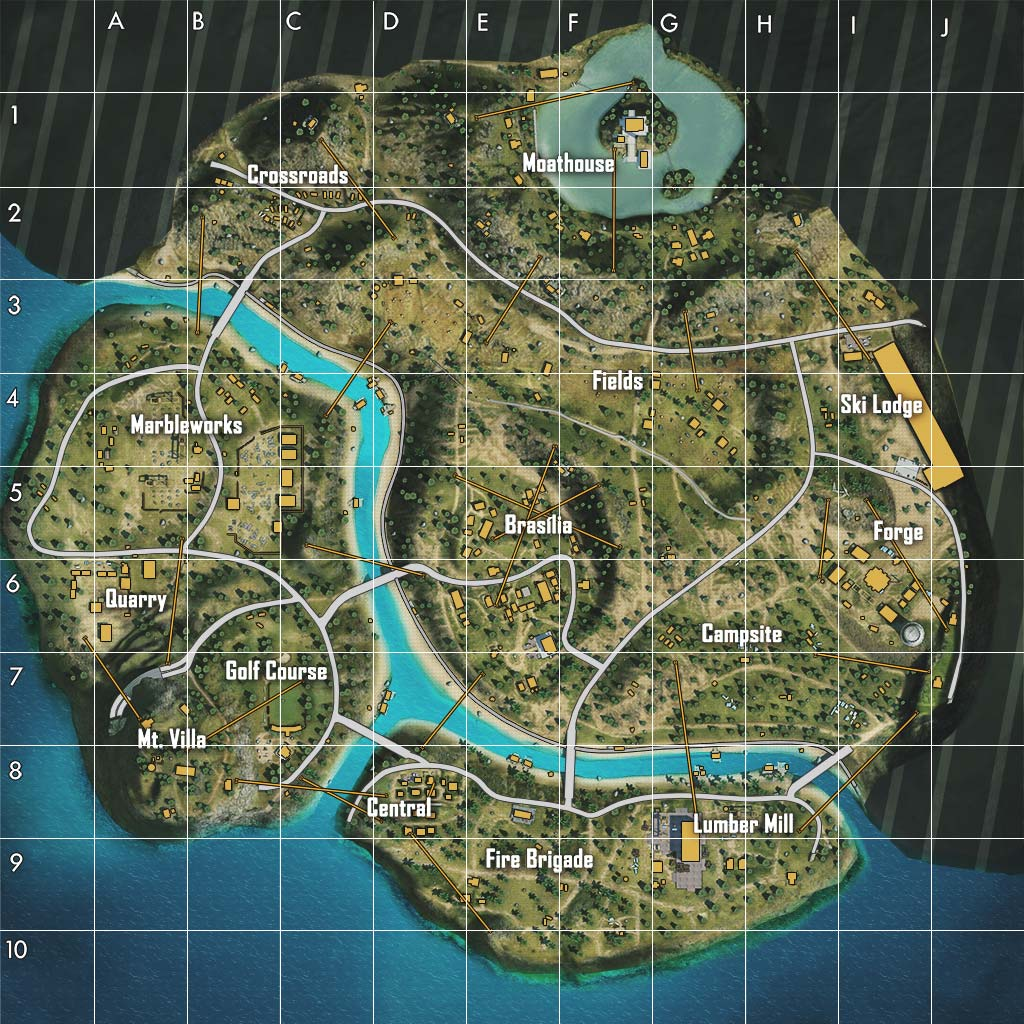
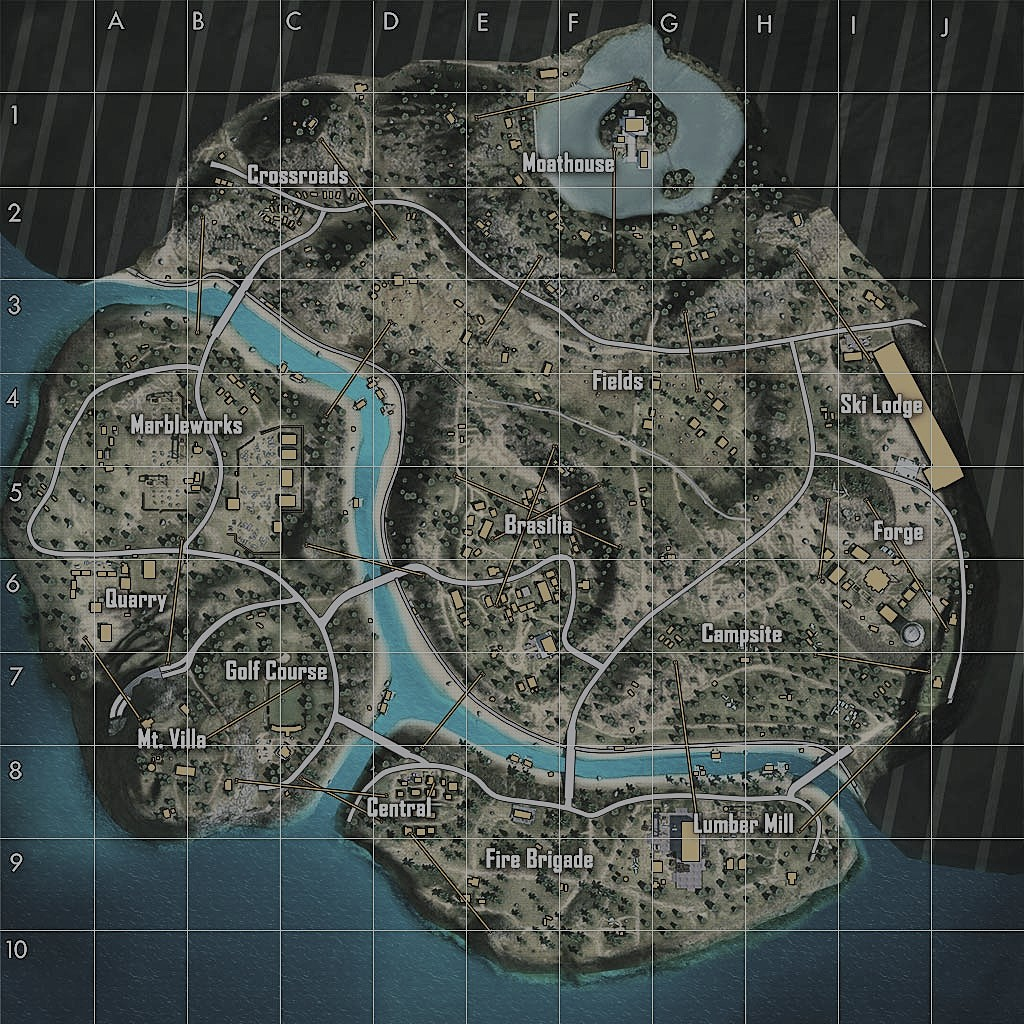
phase 2 complete - full drawing engine implemented, path fix + thickness tuning + grow prep, UI slider polish + tactical map pipeline ready

diff --git a/frontend/src/components/toolbar.jsx b/frontend/src/components/toolbar.jsx
@@ -12,7 +12,15 @@ const MAPS = [
     name: "Purgatory",
     path: "/maps/purgatory.jpg",
     preview: "/maps/purgatory-preview.jpg"
-  }
+  },
+  { name: "kalahari",
+    path: "/maps/kalahari.jpg",
+    preview: "/maps/kalahari-preview.jpg"
+  },
+  { name: "nexterra",
+    path: "/maps/nexterra.jpg",
+    preview: "/maps/nexterra-preview.jpg"
+    },
 ];
 
 export default function Toolbar({
@@ -97,6 +105,7 @@ export default function Toolbar({
         color: "#fff"
       }}
     >
+      <style>{sliderCSS}</style>
       {/* STRATEGY HEADER SHELL */}
       <div
         style={{
@@ -485,50 +494,75 @@ export default function Toolbar({
 
 
 
-          {/* THICKNESS */}
-          <div style={{ display: "flex", flexDirection: "column", gap: 6 }}>
-            <div style={{ fontSize: 11, opacity: 0.75 }}>Thickness</div>
-            <input
-              type="range"
-              min={1}
-              max={12}
-              defaultValue={3}
-              onChange={(e) => setPenWidth(Number(e.target.value))}
-                style={{
-    width: "100%",
-    appearance: "none",
-    height: 6,
-    borderRadius: 6,
-    background: "linear-gradient(to right, #2ed573, #2f3542)",
-    outline: "none",
-    cursor: "pointer"
-  }}
-
-            />
-          </div>
-
           {/* OPACITY */}
-          <div style={{ display: "flex", flexDirection: "column", gap: 6 }}>
-            <div style={{ fontSize: 11, opacity: 0.75 }}>Opacity</div>
-            <input
-              type="range"
-              min={0.1}
-              max={1}
-              step={0.05}
-              defaultValue={1}
-              onChange={(e) => setPenOpacity(Number(e.target.value))}
-                style={{
+<div
+  style={{
+    display: "flex",
+    alignItems: "center",
+    gap: 10,
     width: "100%",
-    appearance: "none",
-    height: 6,
-    borderRadius: 6,
-    background: "linear-gradient(to right, rgba(255,255,255,0.3), #2f3542)",
-    outline: "none",
-    cursor: "pointer"
+    minWidth: 0
   }}
+>
+  <div style={{ fontSize: 12, opacity: 0.85, width: 70 }}>
+    Opacity
+  </div>
 
-            />
-          </div>
+  <input
+    type="range"
+    min={0.1}
+    max={1}
+    step={0.05}
+    defaultValue={1}
+    onChange={(e) => setPenOpacity(Number(e.target.value))}
+    style={{
+      flex: 1,
+      minWidth: 0,
+      maxWidth: "100%",
+      appearance: "none",
+      height: 6,
+      borderRadius: 10,
+      background: "linear-gradient(to right, #d1d5db, #9ca3af)",
+      outline: "none"
+    }}
+    onMouseDown={(e)=> e.stopPropagation()}
+  />
+</div>
+
+{/* THICKNESS */}
+<div
+  style={{
+    display: "flex",
+    alignItems: "center",
+    gap: 10,
+    width: "100%",
+    minWidth: 0
+  }}
+>
+  <div style={{ fontSize: 12, opacity: 0.85, width: 70 }}>
+    Thickness
+  </div>
+
+  <input
+    type="range"
+    min={1}
+    max={6}
+    defaultValue={3}
+    onChange={(e) => setPenWidth(Number(e.target.value))}
+    style={{
+      flex: 1,
+      minWidth: 0,
+      maxWidth: "100%",
+      appearance: "none",
+      height: 6,
+      borderRadius: 10,
+      background: "linear-gradient(to right, #d1d5db, #9ca3af)",
+      outline: "none"
+    }}
+    onMouseDown={(e)=> e.stopPropagation()}
+  />
+</div>
+
         </div>
       )}
 
@@ -646,6 +680,27 @@ const desktopHoverHandlers = {
     e.currentTarget.style.boxShadow = "";
   }
 };
+/* modern slider styling */
+const sliderCSS = `
+input[type="range"]::-webkit-slider-thumb {
+  appearance: none;
+  width: 16px;
+  height: 16px;
+  border-radius: 50%;
+  background: #ffffff;
+  border: 2px solid #9ca3af;
+  cursor: pointer;
+  transition: transform 0.15s ease, box-shadow 0.15s ease;
+}
+input[type="range"]::-webkit-slider-thumb:hover {
+  transform: scale(1.15);
+  box-shadow: 0 0 10px rgba(255,255,255,0.25);
+}
+input[type="range"]::-webkit-slider-runnable-track {
+  height: 6px;
+  border-radius: 10px;
+}
+`;
 
 
 

diff --git a/frontend/src/components/StrategyCanvas.jsx b/frontend/src/components/StrategyCanvas.jsx
@@ -229,9 +229,10 @@ const [phases, setPhases] = useState(makeInitialPhases);
       name,
       x: baseX + jitter(),
       y: baseY + jitter(),
-      color: teamMode === "ally" ? "#1e90ff" : "#ff4757",
+      color: teamMode === "ally" ? "#3da7ff" : "#ff4d4d",
       locked: false,
       character: charName
+
     });
 
     return updated;
@@ -589,19 +590,44 @@ if (s.type === "line") {
       if (s.type === "freehand") {
         drawSmoothPath(s.points, s.color, s.width);
       }
-      if (s.type === "path") {
-  if (!s.points || s.points.length < 2) return;
+     if (s.type === "path") {
+  if (s.points.length < 2) return;
+
+  const pts = s.points;
 
   ctx.save();
+  ctx.strokeStyle = s.color;
+  ctx.lineWidth = s.width;
+  ctx.lineCap = "round";
+  ctx.lineJoin = "round";
   ctx.globalAlpha = s.opacity ?? 1;
 
-  drawSmoothPath(s.points, s.color, s.width);
+  // smooth curve
+  ctx.beginPath();
+  ctx.moveTo(pts[0].x, pts[0].y);
 
-  const a = s.points[s.points.length - 2];
-  const b = s.points[s.points.length - 1];
-  const velocity = dist(a, b);
+  for (let i = 1; i < pts.length - 1; i++) {
+    const midX = (pts[i].x + pts[i + 1].x) / 2;
+    const midY = (pts[i].y + pts[i + 1].y) / 2;
+    ctx.quadraticCurveTo(pts[i].x, pts[i].y, midX, midY);
+  }
 
-  drawChevronHead(a, b, s.color, s.width, velocity);
+  const last = pts[pts.length - 1];
+  ctx.lineTo(last.x, last.y);
+  ctx.stroke();
+
+  // start dot
+  ctx.beginPath();
+  const dotSize = Math.max(3, Math.min(8, s.width * 1.2));
+ctx.arc(pts[0].x, pts[0].y, dotSize, 0, Math.PI * 2);
+  ctx.fillStyle = s.color;
+  ctx.fill();
+
+  // end dot
+  ctx.beginPath();
+  const dotSizeEnd = Math.max(3, Math.min(8, s.width * 1.2));
+ctx.arc(last.x, last.y, dotSizeEnd, 0, Math.PI * 2);
+  ctx.fill();
 
   ctx.restore();
 }
@@ -674,6 +700,10 @@ if (s.type === "line") {
         if (s.points.length < 2) return;
 
         // draw smooth curved path
+        ctx.shadowColor = s.color;
+ctx.shadowBlur = 8;
+ctx.shadowOffsetX = 0;
+ctx.shadowOffsetY = 0;
         drawSmoothPath(s.points, s.color, s.width);
         if (s.type === "path") {
   if (s.points.length < 2) return;
@@ -725,7 +755,9 @@ if (s.type === "line") {
       }
     });
     ctx.globalAlpha = 1;
+    ctx.shadowBlur = 0;
   }, [currentPhase]);
+  
 
   // ---------------- CLEAR ----------------
   const clearCanvas = () => {

diff --git a/frontend/src/components/PlayerLayer.jsx b/frontend/src/components/PlayerLayer.jsx
@@ -142,8 +142,9 @@ export default function PlayerLayer({
         const left = (p.x / 1000) * containerSize.width;
         const top = (p.y / 600) * containerSize.height;
 
-        const isEnemy = p.color === "#ff4757";
-        const bgColor = isEnemy ? "#ff6b6b" : "#4cc9ff";
+        const isEnemy = p.color === "#ff4d4d";
+        const bgColor = isEnemy ? "#ff4d4d" : "#3da7ff";
+
         const fading = deletingId === p.id;
 
         return (